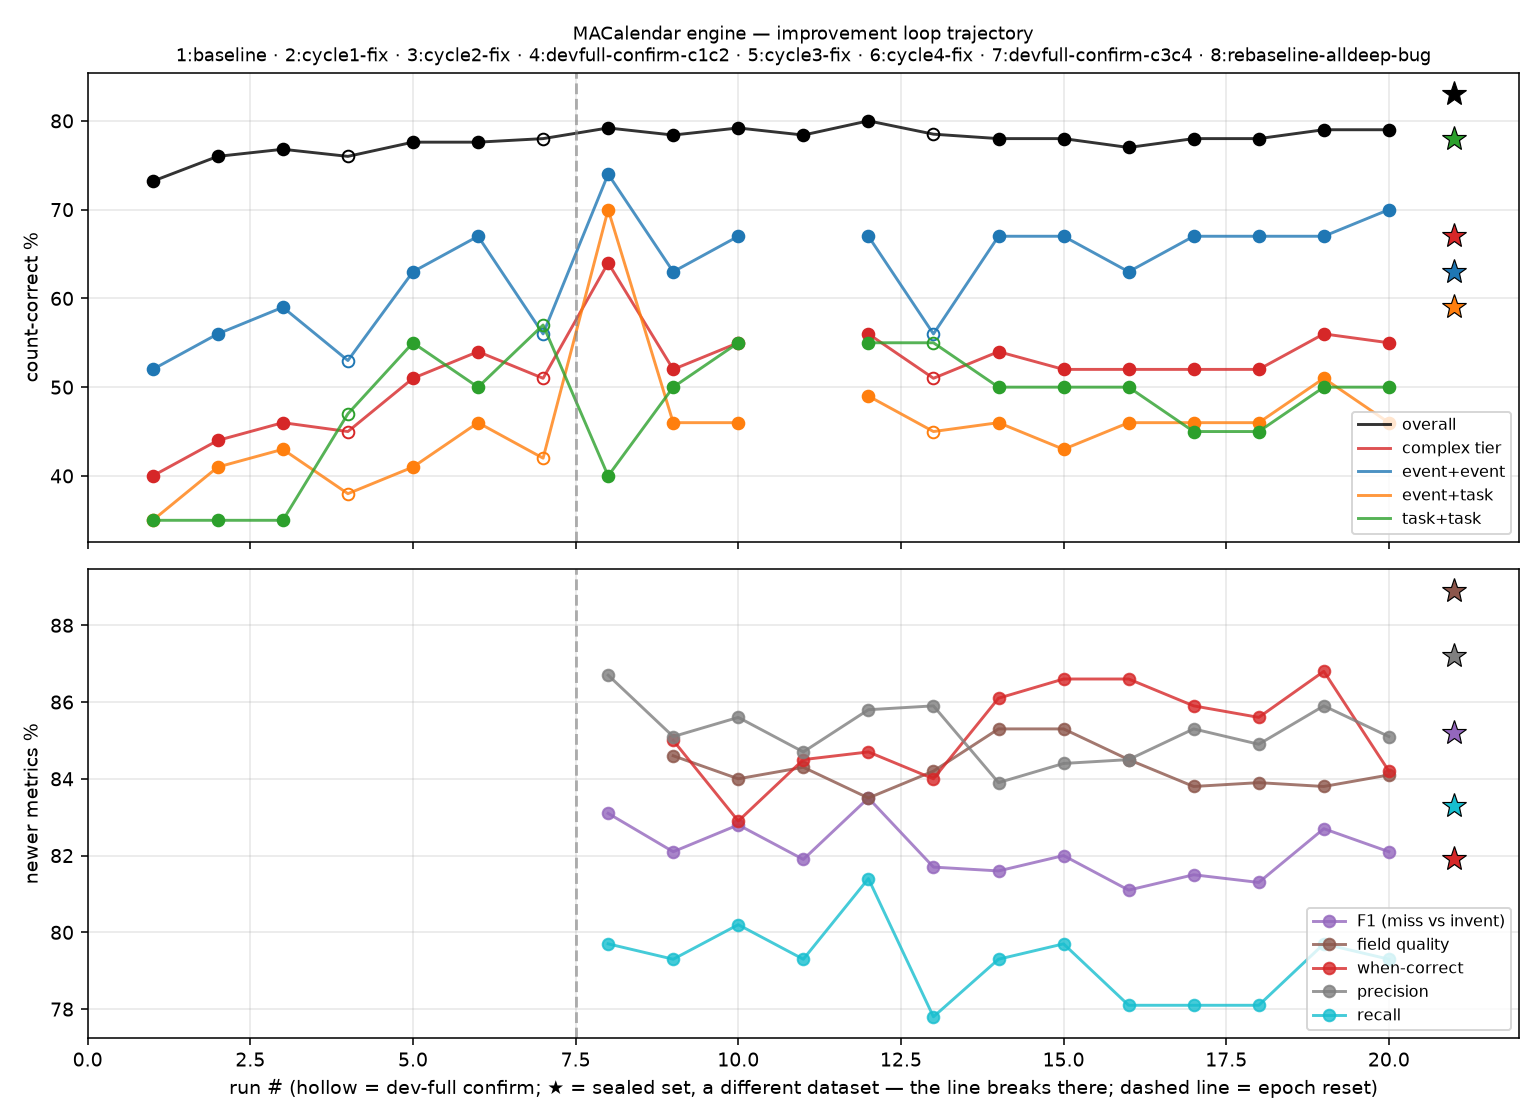
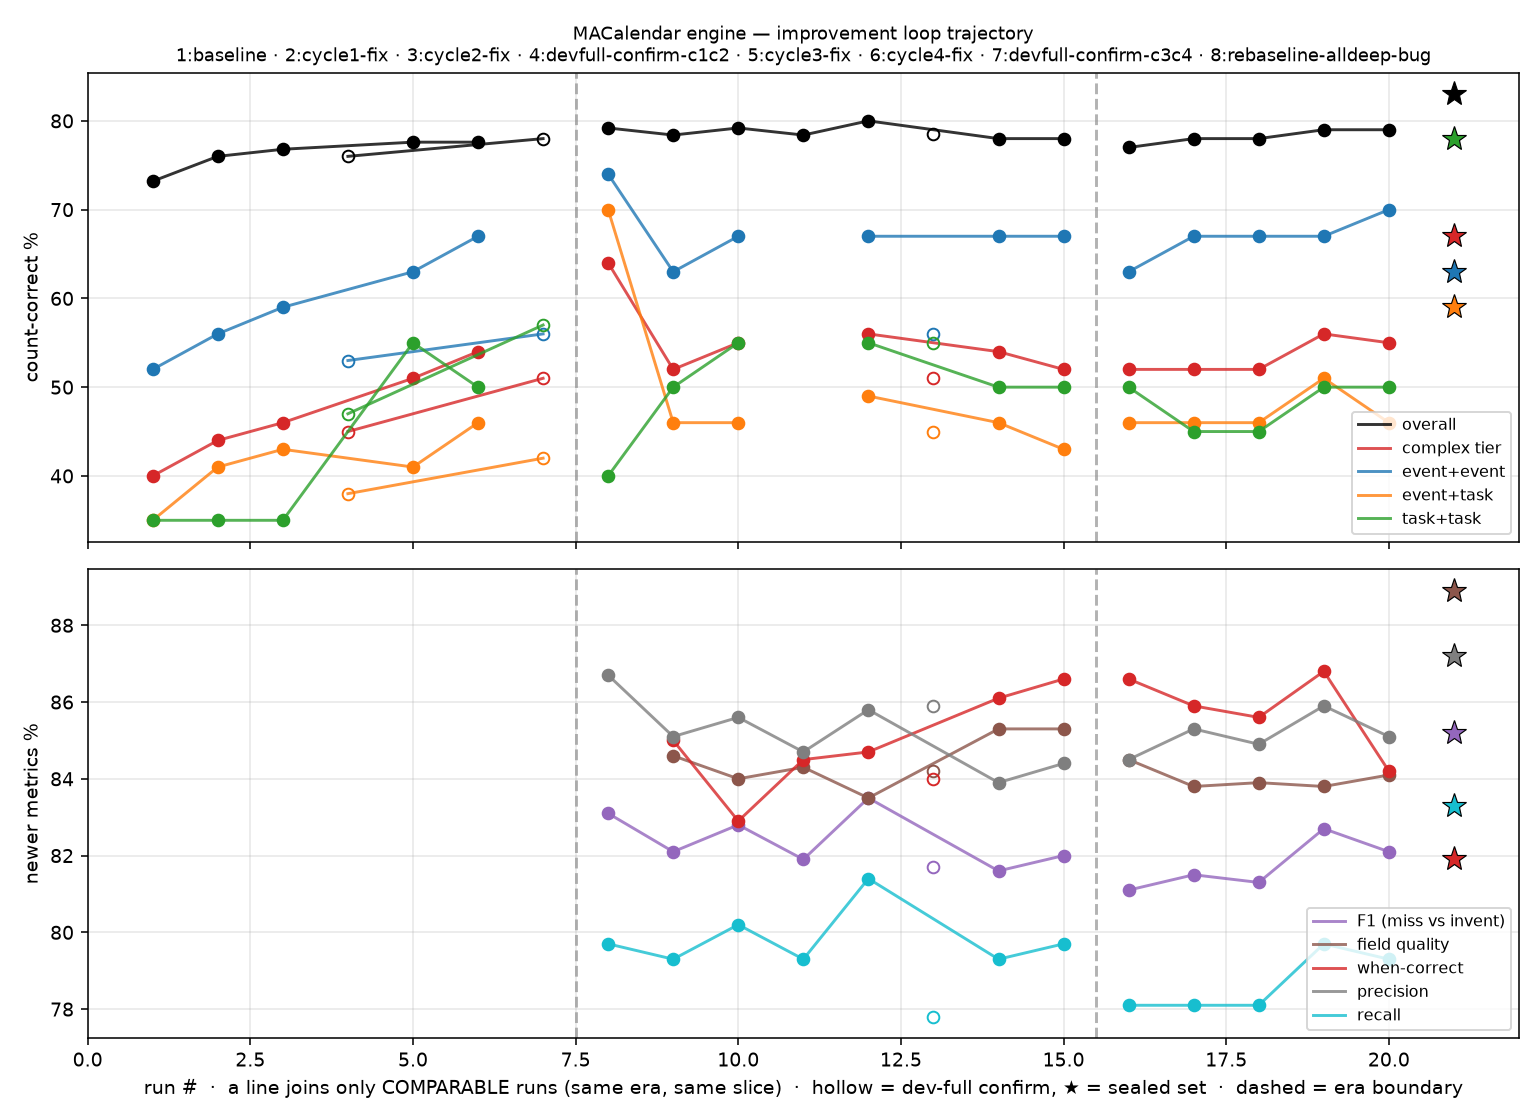
The trajectory chart drew four deltas that don't exist; comparability now lives in the log
A LINE on a time series is the strongest claim the chart makes — the same
thing, measured again. plot_loop drew ONE line through every run and pushed
every disclaimer down into marker style, which is the weakest channel. So the
chart asserted continuity and denied it in a footnote, and four of its edges
were comparisons the project's own notes forbid:

  run  3 -> 4   76.8 -> 76.0   slice swap to dev-full-600, reads as a dip
  run  6 -> 7   77.6 -> 78.0   same swap, reads as a gain
  run 12 -> 13  80.0 -> 78.5   same swap - the biggest apparent drop in era 1,
                               and not a regression at all
  run 15 -> 16  78.0 -> 77.0   the era-1/era-2 boundary, which the chart did
                               not draw. RESULTS.md on run 16: "headline flat
                               within noise ... the real move is ROUTING
                               SAFETY: fast correct 79->90"

A fifth (run 20 -> 21, into the sealed 300) was fixed in db4eca5 and is what
exposed the rest: adding the sealed row would have manufactured the same error
the row was added to correct.

ROOT CAUSE: comparability was folklore. The only machine-readable record of it
in the repo was EPOCH_BOUNDARY_RUN = 8 — one hardcoded int, in a RENDERER. The
era-2 boundary was declared in STATUS.md prose and existed nowhere in code, so
it was never drawn. And loop_log carried `slice` but not era, so the one fact
that decides whether two rows may be compared was not in the row.
[…]

diff --git a/scripts/plot_loop.py b/scripts/plot_loop.py
@@ -4,17 +4,47 @@
 
 One figure, two panels: count-correctness (overall + the compound slices +
 complex tier) over the runs, and the newer metrics (F1, field quality) once
-they exist. Epoch boundaries (harness changes that reset comparability) are
-drawn as vertical lines — points across them are not comparable. Dev-full
-confirm runs are hollow markers so the tuning slice and the wider slice are
-never visually conflated.
+they exist.
 
-SEALED runs are drawn as detached stars and the trend line BREAKS at them
-(2026-09-11). They are a different dataset, not a later point on the tuning
-slice: run 21 is the sealed 300 and every run around it is dev-fast-250, so
-joining them draws a 79→83 "gain" that is really just a change of subject —
-which is the same conflation the hollow dev-full markers already exist to
-prevent, and the reason this file knows about slices at all.
+A LINE MEANS ONE THING: these points are comparable to each other (2026-09-11).
+Runs are grouped by `(era, slice)` and each group gets its own connected
+segment, so the line never crosses a boundary the project has declared
+uncrossable. That rule replaced a chart which drew ONE line through
+everything and downgraded the disclaimers to marker styles — a connected line
+is the strongest claim a time series makes ("the same thing, measured again"),
+and a hollow marker is a footnote, so the old chart made the strong claim and
+denied it in the weak channel. Four false deltas were visible on it:
+
+    run  3 -> 4   76.8 -> 76.0   slice swap to dev-full-600, read as a dip
+    run  6 -> 7   77.6 -> 78.0   same swap, read as a gain
+    run 12 -> 13  80.0 -> 78.5   same swap — the biggest apparent drop in
+                                 era 1, and not a regression at all
+    run 15 -> 16  78.0 -> 77.0   the era-1/era-2 boundary, which the chart
+                                 did not even draw. RESULTS.md on run 16:
+                                 "headline flat within noise ... the real move
+                                 is ROUTING SAFETY: fast correct 79->90"
+
+(A fifth, run 20 -> 21 into the sealed 300, was fixed first and is what
+exposed the rest.)
+
+COMPARABILITY NOW LIVES IN THE DATA. `loop_log.csv` carries an `era` column;
+this script no longer hardcodes where the boundaries are. It used to hold the
+only machine-readable record of comparability in the repo — a single
+`EPOCH_BOUNDARY_RUN = 8` — while the era-2 boundary existed solely as prose in
+STATUS.md and so was never drawn at all. Declaring a new era is now a cell in
+the log, next to the measurements it governs, rather than an edit to a
+renderer someone has to remember to make.
+
+Marker shapes still carry the slice, because which dataset a point measures is
+worth seeing at a glance:
+
+    filled circle   the tuning slice (dev-fast-250)
+    hollow circle   a dev-full confirm — wider, harder, its own segment
+    star            a sealed-set milestone — never joined to anything
+
+A row with an EMPTY era forms its own group and is therefore drawn detached.
+That is deliberate: an unstated comparability claim is not a claim, and
+failing to a detached point is the safe direction.
 """
 from __future__ import annotations
 
@@ -28,9 +58,6 @@ import matplotlib.pyplot as plt
 LOG = pathlib.Path(__file__).resolve().parents[1] / "dataset" / "loop_log.csv"
 OUT = LOG.parent / "loop_trajectory.png"
 
-# runs at/after this run number are the frozen-clock epoch (2026-09-05)
-EPOCH_BOUNDARY_RUN = 8
-
 
 def _f(v):
     try:
@@ -39,62 +66,105 @@ def _f(v):
         return None
 
 
+def _style(slice_name: str) -> str:
+    """Which dataset this point measures — "sealed", "devfull" or "tuning"."""
+    if slice_name.startswith("sealed"):
+        return "sealed"
+    if slice_name.startswith("dev-full"):
+        return "devfull"
+    return "tuning"
+
+
+def _segments(rows) -> "list[list[int]]":
+    """Row indices grouped into runs that may be JOINED BY A LINE.
+
+    Same era and same slice, in run order. Anything else is a different
+    measurement and gets its own segment — which is also why the dev-full
+    confirms finally read as a trajectory of their own (76.0 -> 78.0 -> 78.5)
+    instead of as three interruptions in someone else's line.
+    """
+    groups: "dict[tuple, list[int]]" = {}
+    for i, r in enumerate(rows):
+        groups.setdefault((r.get("era", ""), r["slice"]), []).append(i)
+    return list(groups.values())
+
+
+def _boundaries(rows) -> "list[float]":
+    """x positions where the era changes — read from the data, not hardcoded."""
+    out = []
+    for prev, cur in zip(rows, rows[1:]):
+        if prev.get("era", "") != cur.get("era", ""):
+            out.append((int(prev["run"]) + int(cur["run"])) / 2)
+    return out
+
+
+def _draw(ax, rows, x, series, marker_every: bool) -> None:
+    segments = _segments(rows)
+    for key, label, color in series:
+        ys = [_f(r.get(key)) for r in rows]
+        if not any(y is not None for y in ys):
+            continue
+        labelled = False
+        for seg in segments:
+            xs = [x[i] for i in seg]
+            vals = [ys[i] for i in seg]
+            if not any(v is not None for v in vals):
+                continue
+            # One legend entry per SERIES, not per segment.
+            ax.plot(xs, vals, "-", color=color, alpha=.8,
+                    label=None if labelled else label)
+            labelled = True
+        if not marker_every:
+            continue
+        for i, (xi, yi) in enumerate(zip(x, ys)):
+            if yi is None:
+                continue
+            kind = _style(rows[i]["slice"])
+            if kind == "sealed":
+                ax.plot(xi, yi, "*", ms=13, mfc=color, mec="black", mew=.6)
+            else:
+                ax.plot(xi, yi, "o",
+                        mfc="none" if kind == "devfull" else color, mec=color)
+
+
 def main() -> int:
     rows = list(csv.DictReader(LOG.open()))
     if not rows:
         print("loop_log.csv is empty")
         return 1
+    rows.sort(key=lambda r: int(r["run"]))
     x = [int(r["run"]) for r in rows]
-    devfull = [r["slice"].startswith("dev-full") for r in rows]
-    # A sealed run measures a DIFFERENT DATASET; it never joins the trend line.
-    sealed = [r["slice"].startswith("sealed") for r in rows]
-
-    def _line(ys):
-        """The series with sealed points punched out, so the line breaks
-        rather than implying continuity across a change of dataset."""
-        return [None if s else y for y, s in zip(ys, sealed)]
 
     fig, (a1, a2) = plt.subplots(2, 1, figsize=(11, 8), sharex=True)
-    series1 = [("overall_pct", "overall", "black"),
-               ("complex_pct", "complex tier", "tab:red"),
-               ("event_event_pct", "event+event", "tab:blue"),
-               ("event_task_pct", "event+task", "tab:orange"),
-               ("task_task_pct", "task+task", "tab:green")]
-    for key, label, color in series1:
-        ys = [_f(r.get(key)) for r in rows]
-        a1.plot(x, _line(ys), "-", color=color, alpha=.8, label=label)
-        for xi, yi, full, seal in zip(x, ys, devfull, sealed):
-            if yi is None:
-                continue
-            if seal:
-                a1.plot(xi, yi, "*", ms=13, mfc=color, mec="black", mew=.6)
-            else:
-                a1.plot(xi, yi, "o", mfc="none" if full else color, mec=color)
+    _draw(a1, rows, x,
+          [("overall_pct", "overall", "black"),
+           ("complex_pct", "complex tier", "tab:red"),
+           ("event_event_pct", "event+event", "tab:blue"),
+           ("event_task_pct", "event+task", "tab:orange"),
+           ("task_task_pct", "task+task", "tab:green")],
+          marker_every=True)
     a1.set_ylabel("count-correct %")
     a1.legend(loc="lower right", fontsize=8)
     a1.grid(alpha=.3)
 
-    series2 = [("f1_pct", "F1 (miss vs invent)", "tab:purple"),
-               ("fieldq_pct", "field quality", "tab:brown"),
-               ("when_ok_pct", "when-correct", "tab:red"),
-               ("precision_pct", "precision", "tab:gray"),
-               ("recall_pct", "recall", "tab:cyan")]
-    for key, label, color in series2:
-        ys = [_f(r.get(key)) for r in rows]
-        if not any(y is not None for y in ys):
-            continue
-        a2.plot(x, _line(ys), "o-", color=color, alpha=.8, label=label)
-        for xi, yi, seal in zip(x, ys, sealed):
-            if yi is not None and seal:
-                a2.plot(xi, yi, "*", ms=13, mfc=color, mec="black", mew=.6)
+    _draw(a2, rows, x,
+          [("f1_pct", "F1 (miss vs invent)", "tab:purple"),
+           ("fieldq_pct", "field quality", "tab:brown"),
+           ("when_ok_pct", "when-correct", "tab:red"),
+           ("precision_pct", "precision", "tab:gray"),
+           ("recall_pct", "recall", "tab:cyan")],
+          marker_every=True)
     a2.set_ylabel("newer metrics %")
-    a2.set_xlabel("run # (hollow = dev-full confirm; ★ = sealed set, a different "
-                  "dataset — the line breaks there; dashed line = epoch reset)")
+    a2.set_xlabel("run #  ·  a line joins only COMPARABLE runs (same era, same "
+                  "slice)  ·  hollow = dev-full confirm, ★ = sealed set  ·  "
+                  "dashed = era boundary")
     a2.legend(loc="lower right", fontsize=8)
     a2.grid(alpha=.3)
 
+    bounds = _boundaries(rows)
     for ax in (a1, a2):
-        ax.axvline(EPOCH_BOUNDARY_RUN - 0.5, ls="--", color="gray", alpha=.6)
+        for b in bounds:
+            ax.axvline(b, ls="--", color="gray", alpha=.6)
 
     labels = {int(r["run"]): r["label"] for r in rows}
     a1.set_title("MACalendar engine — improvement loop trajectory\n"
@@ -102,7 +172,9 @@ def main() -> int:
                  fontsize=9)
     fig.tight_layout()
     fig.savefig(OUT, dpi=140)
-    print(f"wrote {OUT} ({len(rows)} runs)")
+    eras = sorted({r.get("era", "") for r in rows})
+    print(f"wrote {OUT} ({len(rows)} runs, {len(_segments(rows))} comparable "
+          f"segments, eras {'/'.join(e or '?' for e in eras)})")
     return 0
 
 

diff --git a/dataset/DATASET.md b/dataset/DATASET.md
@@ -45,9 +45,42 @@ on — no human labelling needed.
     experiments/                              run outputs (gitignored)
     METRICS.md                                the metric definitions (canonical)
     RESULTS.md                                per-implementation results log (prose: hypotheses, actual-vs-expected)
-    loop_log.csv (now incl. an `adj_pct` column — the product-adjusted count-correct, backfilled for all runs)                              one row per measurement run — timestamps, duration, commit, metrics; the plottable trajectory
+    loop_log.csv (incl. `adj_pct`, the product-adjusted count-correct, backfilled for all runs; and `era`, below)   one row per measurement run — timestamps, duration, commit, metrics; the plottable trajectory
     HYPOTHESES.md                             the ranked experiment queue — take the top, re-rank after every rerun
     snapshots/                                code snapshots of meaningful iterations, to revert/compare
+
+## `era` — which runs may be compared to each other
+
+**Two runs are comparable only if they share an ERA and a SLICE.** `era` is a
+column in `loop_log.csv`, and it is the whole rule: a boundary means something
+changed that makes a cycle-over-cycle read meaningless, so a number on one side
+may not be subtracted from a number on the other.
+
+| era | runs | what changed at the boundary |
+|---|---|---|
+| 0 | 1–7 | — (the original harness) |
+| 1 | 8–15 | the **frozen-clock epoch**, 2026-09-05: rows replay at their recorded ts with observance gating off. Re-baselined at 78.4 / 81.2-adj |
+| 2 | 16– | the **integration**, 2026-09-06: FastRule object + F1/F2/F3 + the 0.80 threshold. STATUS: *"boards compare within-era only — the integration changed too much for cycle-vs-cycle reads against era 1"* |
+
+**Declaring a new era is a cell in this log**, next to the measurements it
+governs. It used to be `EPOCH_BOUNDARY_RUN = 8` — a single hardcoded int inside
+`scripts/plot_loop.py`, which was the only machine-readable record of
+comparability anywhere in the repo. The era-2 boundary existed solely as prose
+in STATUS.md, so the trajectory chart never drew it and joined runs 15 and 16
+into a 78.0 → 77.0 "regression" that is really a re-baseline. The renderer no
+longer decides this; the log does.
+
+`scripts/plot_loop.py` groups by `(era, slice)` and draws one line per group,
+so a line only ever joins comparable runs. **A row with an empty `era` forms
+its own group and is drawn detached** — an unstated comparability claim is not
+a claim, and failing to a detached point is the safe direction.
+
+Open, and not a thing to change casually: the era-0/1 boundary sits at 7.5,
+which puts run 8 (`rebaseline-alldeep-bug`) in the new epoch even though run 9
+is the one labelled `epoch-baseline` and supplies the 78.4/81.2 re-baseline.
+That is exactly where `EPOCH_BOUNDARY_RUN = 8` already drew it and was carried
+over unchanged rather than silently moved — moving it changes which
+comparisons the boards sanction, so it wants a decision, not a guess.
 
 **Frozen vs regenerable.** Only `inputs/*.json` are frozen, checked-in ground
 truth. The `dummy_*.db` baselines are *replayed through the LLM* (~75%
